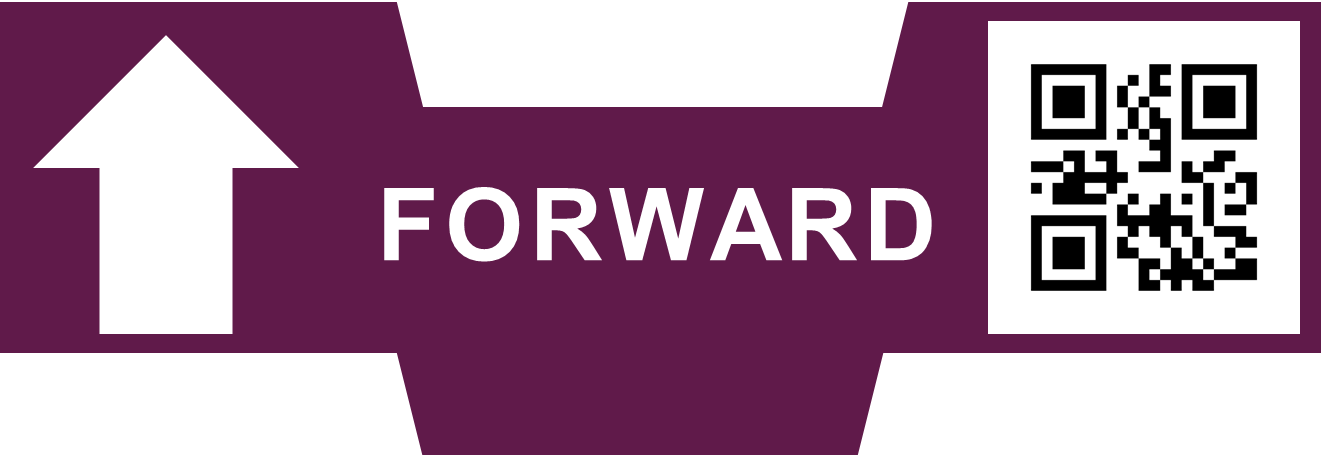
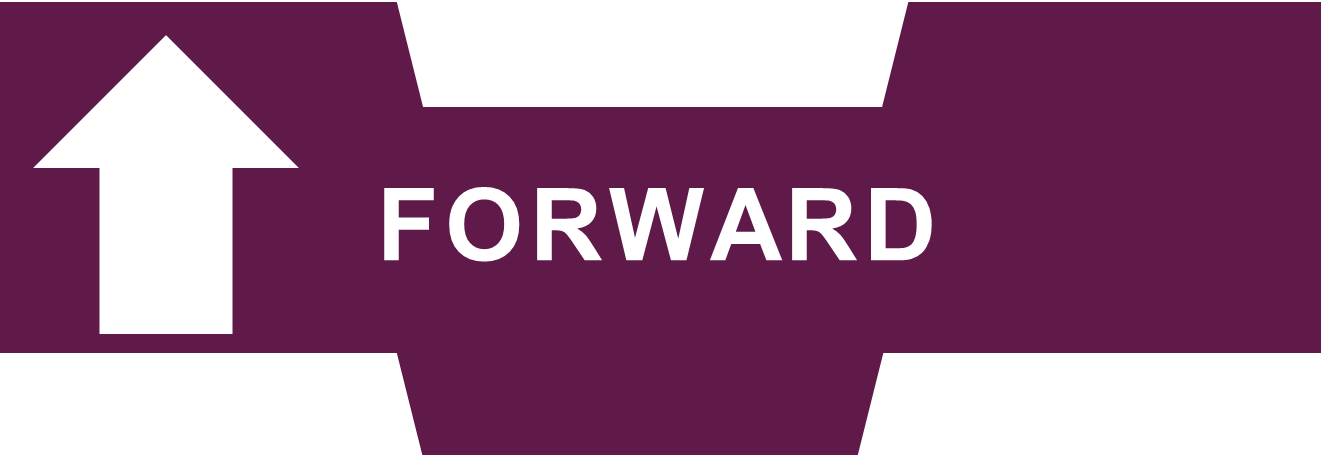
Blocks pictures have been updated
Removed the QR codes from the blocks

Changed region(s): [[0.7449, 0.0308, 0.9932, 0.7385]]

diff --git a/lib/components/levels/level.dart b/lib/components/levels/level.dart
@@ -20,10 +20,11 @@ class Level {
   //final grassBlocks = <GrassBlocks>[];
   //final pavementBlocks = <PavementBlocks>[];
 
-  //allows the blocks, solution, and character to be accessed by llama.dart
+  //allows the blocks, solution, apple, and character to be accessed by llama.dart
   var blocks = [];
   var solution = [];
   var character;
+  var apple;
 
   /*
   creates the basic board of grass blocks, then adjusts in the different levels
@@ -101,12 +102,12 @@ class Level {
         (squareHeight*3.7) + 3 * squareGap,);
     //blocks.add(character);
 
-    final apple = Apple()
+    apple = Apple()
       ..size = Vector2(squareHeight/2, squareHeight/2)
       ..position = Vector2(squareGap + ((6.25-1)+1) * (squareWidth + squareGap),
         (squareHeight*2.3) + 2.5 * squareGap,);
 
-    blocks.add(apple);
+    //blocks.add(apple);
 
     solution = ["FORWARD", "FORWARD", "PICKUP"];
 
@@ -165,12 +166,12 @@ class Level {
         (squareHeight*3.7) + 3 * squareGap,);
     //blocks.add(character);
 
-    final apple = Apple()
+    apple = Apple()
       ..size = Vector2(squareHeight/2, squareHeight/2)
       ..position = Vector2(squareGap + ((4.25-1)+1) * (squareWidth + squareGap),
         (squareHeight*2.3) + 2.5 * squareGap,);
 
-    blocks.add(apple);
+    //blocks.add(apple);
 
     solution = ["FORWARD", "FORWARD","LEFT", "LEFT", "PICKUP"];
 

diff --git a/lib/llama.dart b/lib/llama.dart
@@ -35,6 +35,7 @@ var levelOverall = Level(level);
 var levelBlocks = levelOverall.blocks;
 var levelSolution = levelOverall.solution;
 var character = levelOverall.character;
+var apple = levelOverall.apple;
 
 //a list of all of the visible components in the app
 List<Component> components = [];
@@ -136,6 +137,7 @@ class LlamaGame extends FlameGame with HasTappables {
       levelBlocks = levelOverall.blocks;
       levelSolution = levelOverall.solution;
       character = levelOverall.character;
+      apple = levelOverall.apple;
 
       //add all of the new level information
       for(var element in levelBlocks){
@@ -144,6 +146,8 @@ class LlamaGame extends FlameGame with HasTappables {
       }
       add(character);
       components.add(character);
+      add(apple);
+      components.add(apple);
 
       reset = false;
     }
@@ -196,6 +200,7 @@ class LlamaGame extends FlameGame with HasTappables {
     }
 
     components.add(character);
+    components.add(apple);
     add(runBlocksButton!);
     addAll(components);
 
